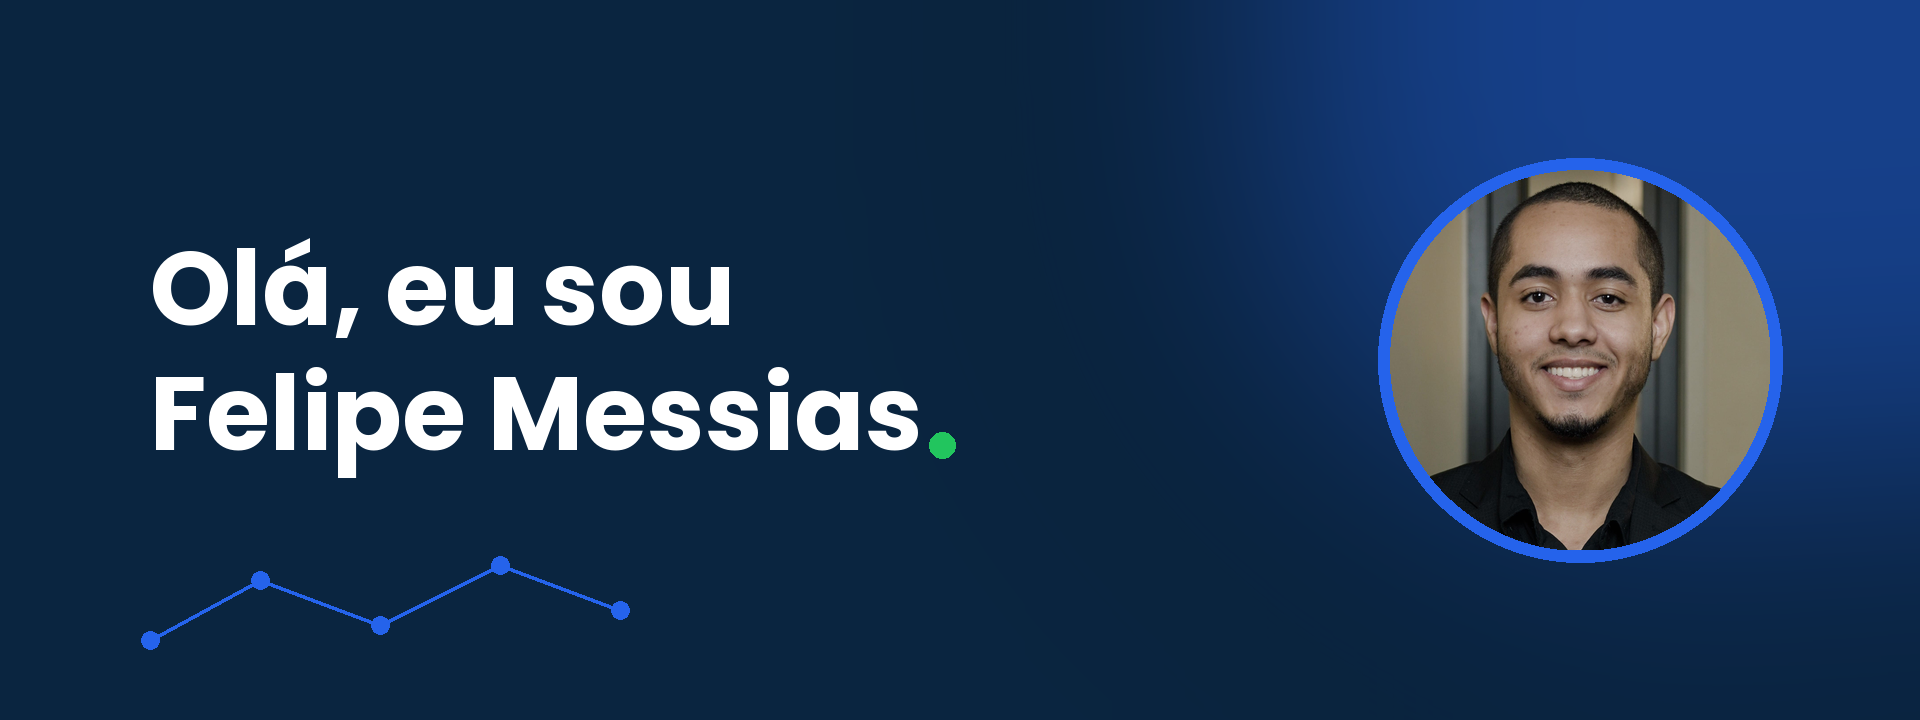
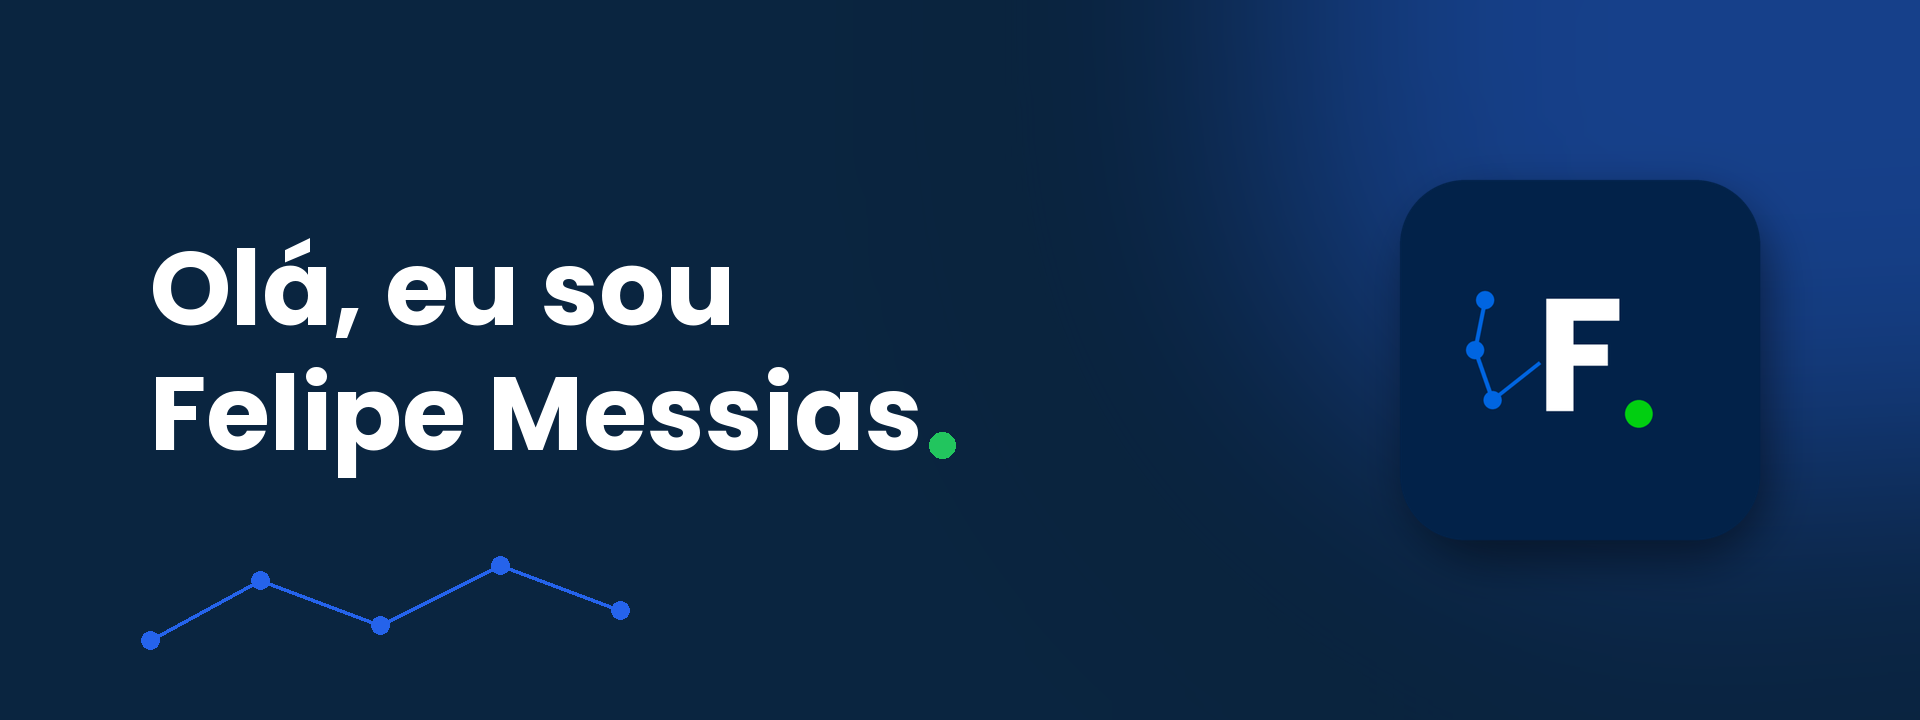
feat: rolagem com ímã entre seções no computador e ícone da marca no slide 1

Changed region(s): [[0.7188, 0.2139, 0.9375, 0.7944]]

diff --git a/index.html b/index.html
@@ -126,6 +126,23 @@
             opacity: 1;
             pointer-events: auto;
         }
+        /* ===== Rolagem com ímã (scroll snap), só no computador =====
+           Cada seção vira um ponto de parada: uma rolada do mouse leva
+           até o começo da próxima, sem parar no meio do caminho. */
+        @media (min-width: 768px) {
+            html {
+                scroll-snap-type: y mandatory;   /* liga o ímã na rolagem vertical */
+                scroll-padding-top: 80px;        /* desconta a altura do menu fixo */
+            }
+            #carouselPortfolio,
+            section {
+                scroll-snap-align: start;        /* para no começo de cada seção */
+            }
+            footer {
+                scroll-snap-align: end;          /* deixa chegar até o rodapé */
+            }
+        }
+
         /* ===== Ajustes para celular (telas de até 767px) ===== */
         @media (max-width: 767px) {
             /* menos espaço entre as seções */
